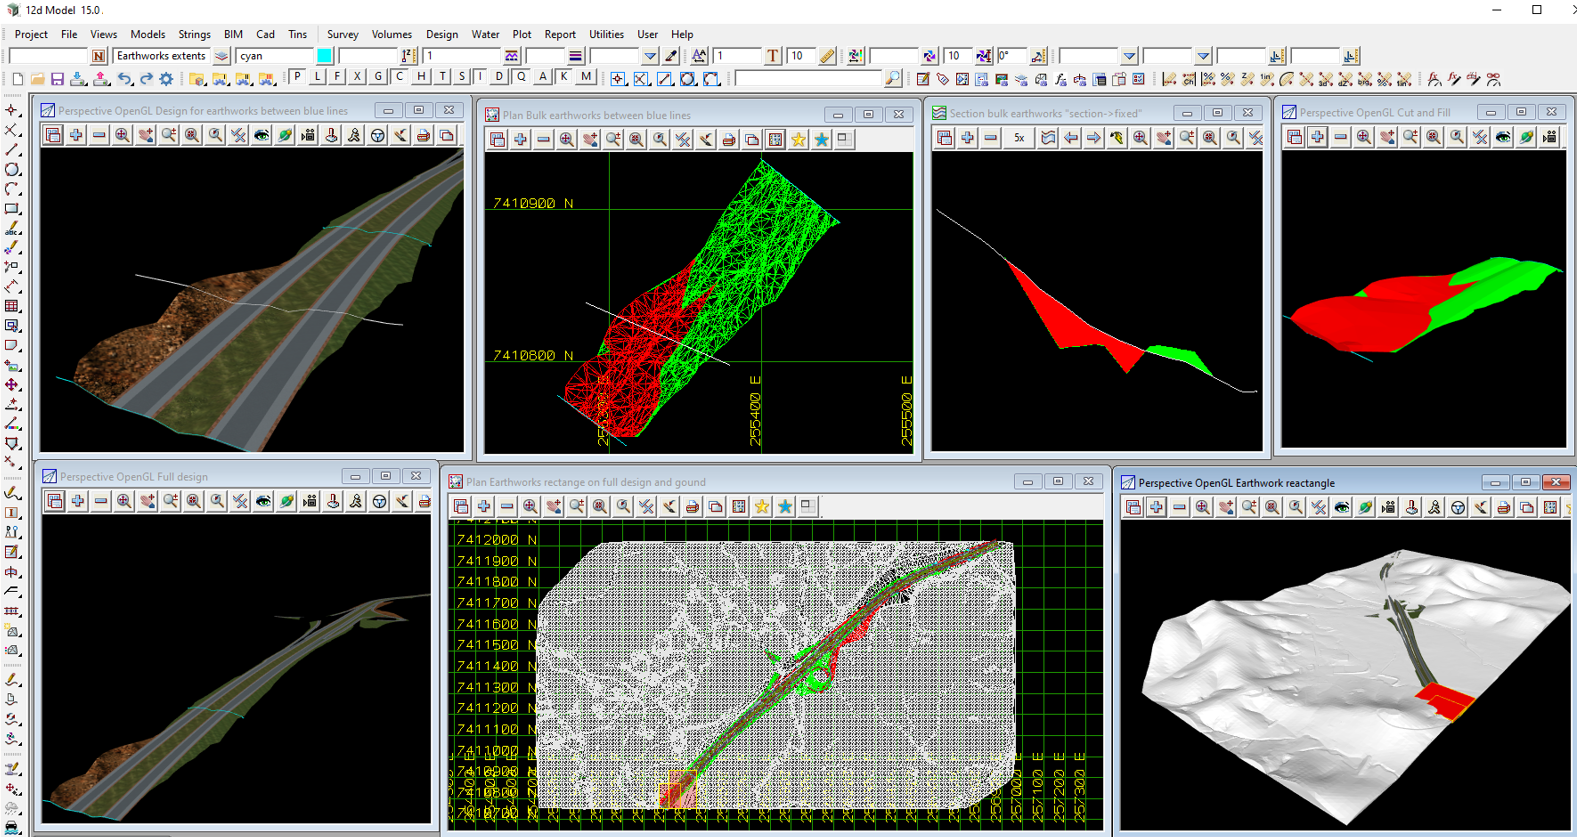
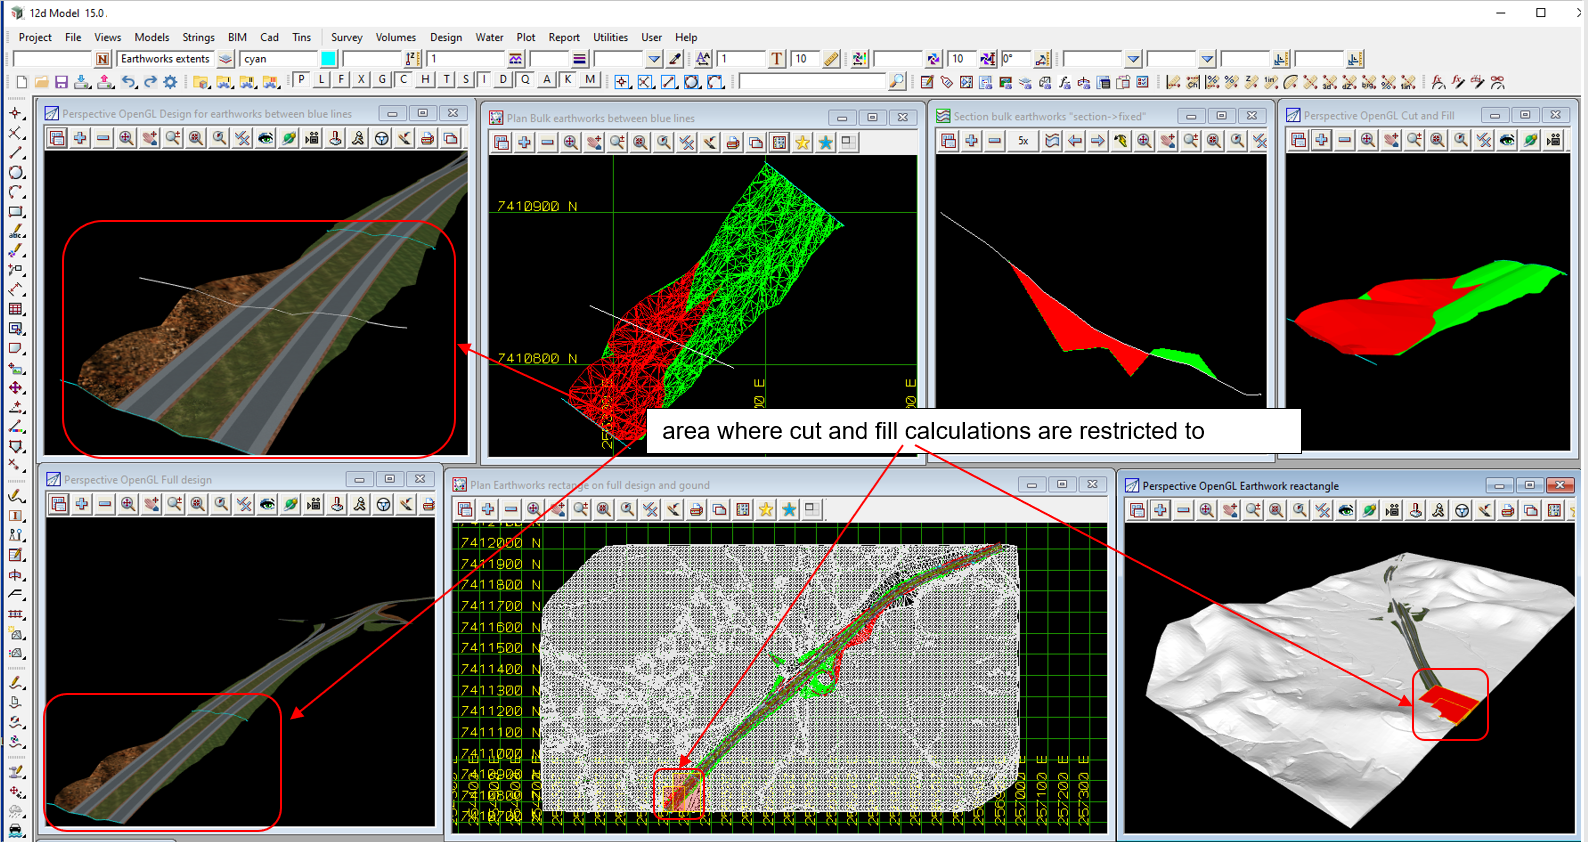
Update UT-Georeferencing-Earthworks-12d-2 for RC3

diff --git a/UT-Georeferencing-Earthworks-12d-2/readme.md b/UT-Georeferencing-Earthworks-12d-2/readme.md
@@ -1,18 +1,18 @@
 
 ### Intent
 
-This scenario has cut and fill elements for bulk earthworks for a small part of a job (blue lines show the extent).
+This scenario has cut and fill elements for bulk earthworks for a small part of a job (blue lines show the extent on the road and red boxes around the area on views).
 
 The cut and fill objects are output.
-However the voided object (Ground) is large and not required so only the semantics is included and no geometry.
+However the voided object (Ground) is large and not required so only the semantics for Ground is included and no geometry.
  
-The data is in map coordinates MGA2020 and AHD.
+All data in the file is in map coordinates MGA2020 and height datum AHD.
 
 The overall ground tin and the rectangle of the area of bulk earthworks is given in the following image:
 
-![GeoEarth12d2](../UT-Georeferencing-Earthworks-12d-2/UT-Georeferencing-Earthworks-12d-2.png)
+![GeorefEarth12d2](../UT-Georeferencing-Earthworks-12d-2/UT-Georeferencing-Earthworks-12d-2.png "Cut and Fill for Bulk Earthworks but the Object that Cuts Void is only Given by Semantics and no Geometry")
 
-The IFC was generated by 12d Model. 
+The IFC file was generated by 12d Model. 
 
 ### This builds on scenarios
 
